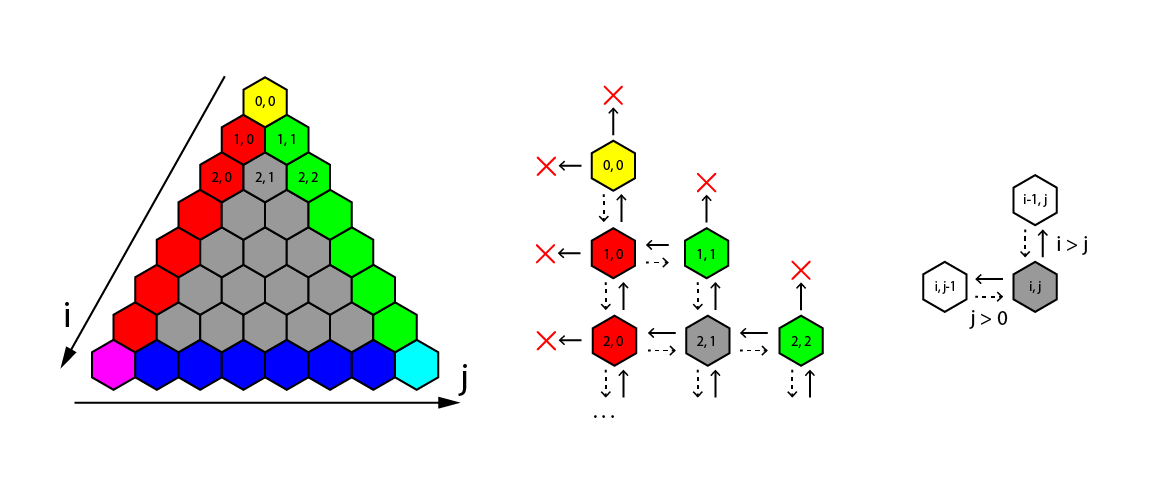
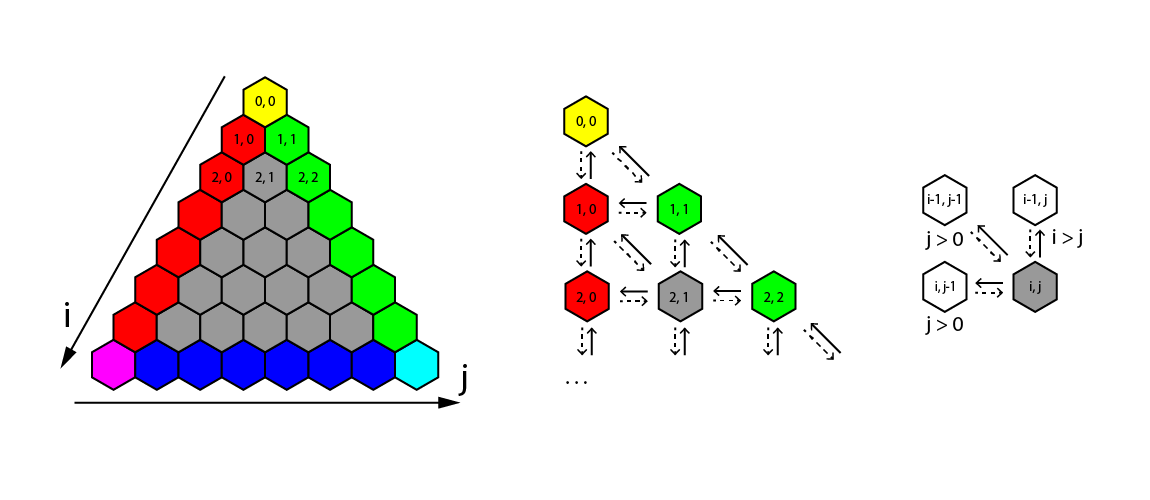
fix: am reparat o eroare de logica la conectarea vecinilor

diff --git a/main.py b/main.py
@@ -16,7 +16,6 @@ class Board:
         assert (size > 1)
         
         self.rows: list[list[Nod]] = []
-        print(len(self.rows))
         for i in range(size):
             self.rows.append([])
             for j in range(i+1):
@@ -26,8 +25,11 @@ class Board:
                 if(i == size-1): s.add('C')
                 
                 n = Nod(s)
-                if(i > j): n.add_neighbor(self.rows[i-1][j])
-                if(j > 0): n.add_neighbor(self.rows[i][j-1])
+                if(i > j):
+                    n.add_neighbor(self.rows[i-1][j])
+                if(j > 0):
+                    n.add_neighbor(self.rows[i][j-1])
+                    n.add_neighbor(self.rows[i-1][j-1])
                 self.rows[i].append(n)
 
 if __name__ == '__main__':